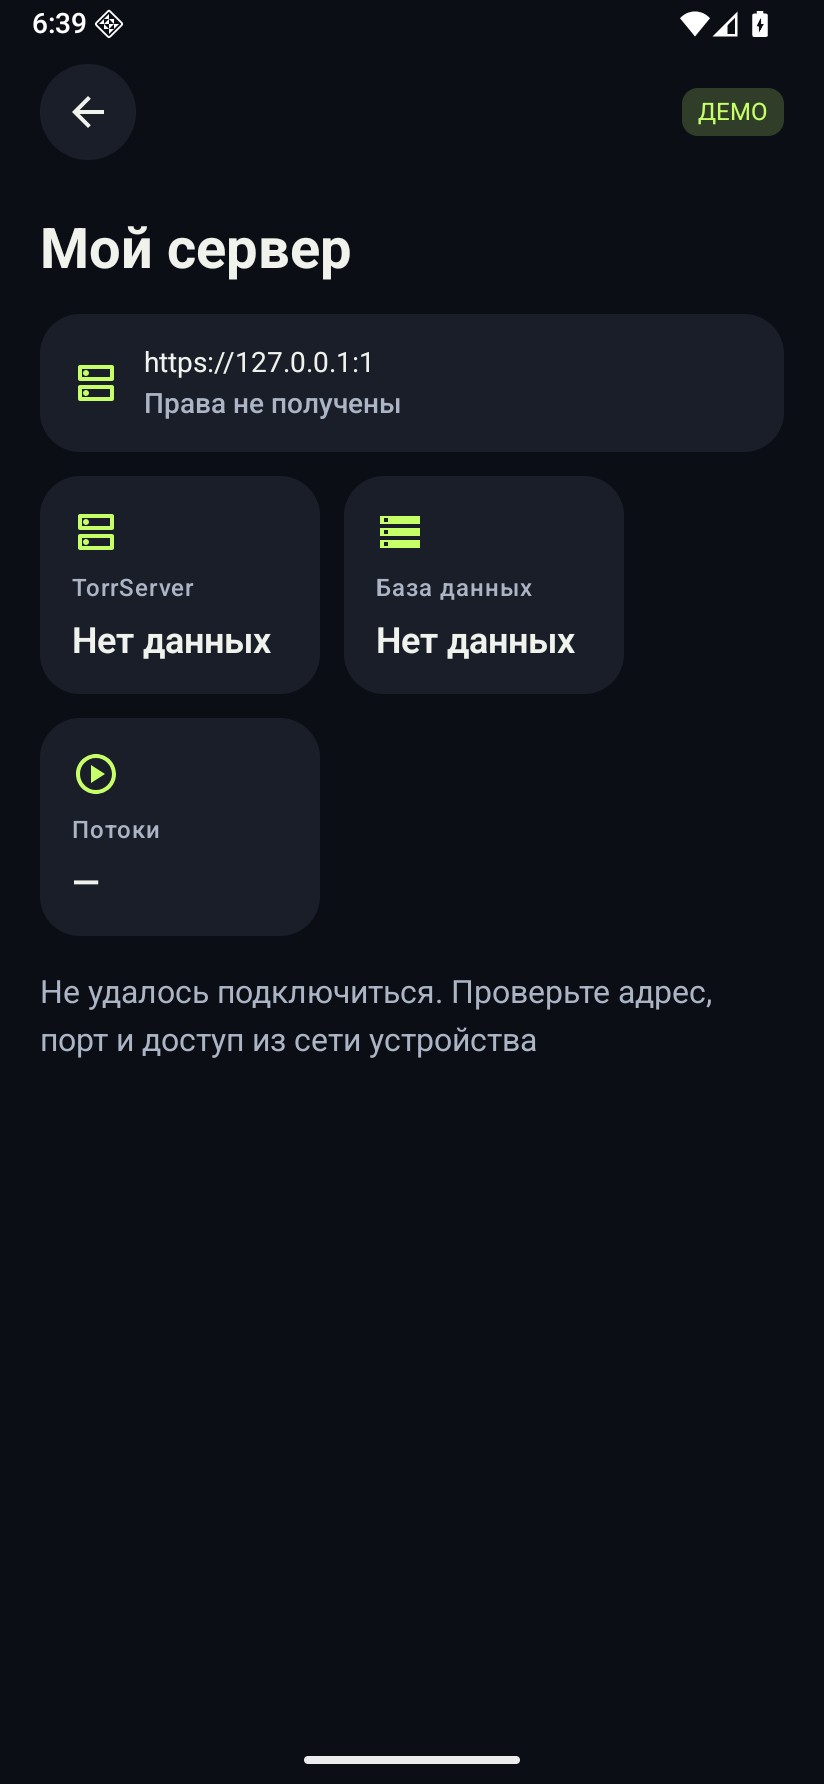
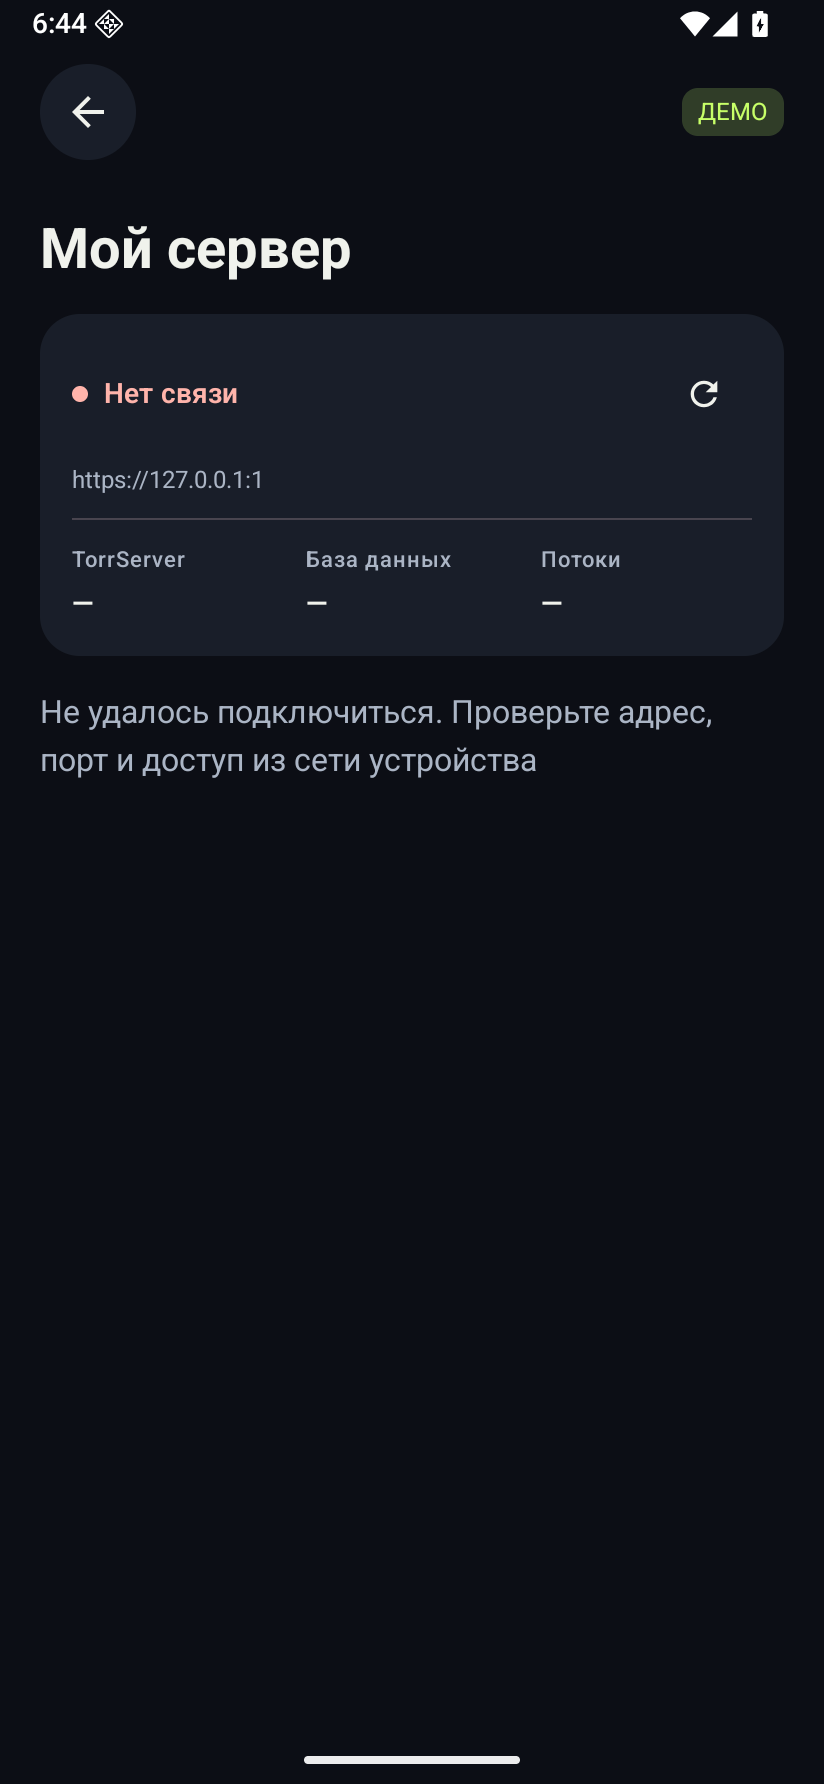
Replace server tiles with a compact live telemetry strip; refs #17

diff --git a/design-system/src/main/java/dev/mjwatch/designsystem/ServerStatusOverview.kt b/design-system/src/main/java/dev/mjwatch/designsystem/ServerStatusOverview.kt
@@ -1,44 +1,51 @@
 package dev.mjwatch.designsystem
 
+import androidx.compose.foundation.background
 import androidx.compose.foundation.layout.*
+import androidx.compose.foundation.shape.CircleShape
 import androidx.compose.material.icons.Icons
-import androidx.compose.material.icons.outlined.*
+import androidx.compose.material.icons.outlined.Refresh
 import androidx.compose.material3.*
 import androidx.compose.runtime.Composable
 import androidx.compose.ui.Alignment
 import androidx.compose.ui.Modifier
-import androidx.compose.ui.graphics.vector.ImageVector
+import androidx.compose.ui.semantics.*
 import androidx.compose.ui.text.font.FontWeight
 import androidx.compose.ui.unit.dp
 import org.json.JSONObject
 
-@OptIn(ExperimentalLayoutApi::class)
-@Composable internal fun ServerStatusOverview(url:String,role:String?,data:JSONObject?,loading:Boolean) {
-    val unknown=if(loading)"Проверяем…" else "Нет данных"
-    Column(verticalArrangement=Arrangement.spacedBy(12.dp)) {
-        Surface(shape=MaterialTheme.shapes.large,color=MaterialTheme.colorScheme.surfaceContainer) {
-            Row(Modifier.fillMaxWidth().padding(16.dp),horizontalArrangement=Arrangement.spacedBy(12.dp),verticalAlignment=Alignment.CenterVertically) {
-                Icon(Icons.Outlined.Dns,null,tint=MaterialTheme.colorScheme.primary)
-                Column(Modifier.weight(1f),verticalArrangement=Arrangement.spacedBy(4.dp)) {
-                    Text(url,style=MaterialTheme.typography.bodyMedium)
-                    Text(when(role){"admin"->"Администратор";"member"->"Участник";else->if(loading)"Проверяем права…" else "Права не получены"},style=MaterialTheme.typography.labelLarge,color=MaterialTheme.colorScheme.onSurfaceVariant)
-                }
+/** One compact telemetry strip; management actions stay in the settings list below. */
+@Composable fun ServerStatusOverview(url:String,role:String?,data:JSONObject?,loading:Boolean,failed:Boolean,checkedAt:Long,tv:Boolean,onRefresh:()->Unit) {
+    val colors=MaterialTheme.colorScheme
+    val status=when {failed->"Нет связи";data!=null->"Сервер доступен";loading->"Подключаемся…";else->"Нет данных"}
+    val statusColor=when {failed->colors.error;data!=null->colors.primary;else->colors.onSurfaceVariant}
+    Surface(shape=MaterialTheme.shapes.large,color=colors.surfaceContainer) {
+        Column(Modifier.fillMaxWidth().padding(16.dp),verticalArrangement=Arrangement.spacedBy(12.dp)) {
+            Row(verticalAlignment=Alignment.CenterVertically,horizontalArrangement=Arrangement.spacedBy(8.dp)) {
+                Box(Modifier.size(8.dp).background(statusColor,CircleShape))
+                Text(status,style=MaterialTheme.typography.titleSmall,fontWeight=FontWeight.SemiBold,color=statusColor,modifier=Modifier.weight(1f).semantics {liveRegion=LiveRegionMode.Polite})
+                if(loading) CircularProgressIndicator(Modifier.size(16.dp).semantics {contentDescription="Обновление статуса"},strokeWidth=2.dp)
+                else IconButton(onClick=onRefresh,modifier=Modifier.size(48.dp).tvFocusRing(tv)) {Icon(Icons.Outlined.Refresh,"Обновить статус",Modifier.size(20.dp))}
             }
-        }
-        FlowRow(horizontalArrangement=Arrangement.spacedBy(12.dp),verticalArrangement=Arrangement.spacedBy(12.dp),maxItemsInEachRow=3) {
-            ServerStatusTile("TorrServer",data?.let {if(it.optBoolean("torrserverHealthy"))"Работает" else "Недоступен"} ?: unknown,Icons.Outlined.Dns,data?.optBoolean("torrserverHealthy"))
-            ServerStatusTile("База данных",data?.let {if(it.optBoolean("databaseHealthy"))"Проверена" else "Ошибка"} ?: unknown,Icons.Outlined.Storage,data?.optBoolean("databaseHealthy"))
-            ServerStatusTile("Потоки",data?.let {it.optInt("activeStreams").toString()} ?: "—",Icons.Outlined.PlayCircle,null)
+            Text(url,style=MaterialTheme.typography.bodySmall,color=colors.onSurfaceVariant)
+            HorizontalDivider(color=colors.outlineVariant)
+            Row(Modifier.fillMaxWidth(),horizontalArrangement=Arrangement.spacedBy(12.dp)) {
+                StatusMetric("TorrServer",data?.let {if(it.optBoolean("torrserverHealthy"))"Работает" else "Недоступен"} ?: "—",data?.optBoolean("torrserverHealthy"),Modifier.weight(1f))
+                StatusMetric("База данных",data?.let {if(it.optBoolean("databaseHealthy"))"В норме" else "Ошибка"} ?: "—",data?.optBoolean("databaseHealthy"),Modifier.weight(1f))
+                StatusMetric("Потоки",data?.optInt("activeStreams")?.toString() ?: "—",null,Modifier.weight(1f))
+            }
+            val details=listOfNotNull(
+                when(role){"admin"->"Администратор";"member"->"Участник";else->null},
+                data?.optString("version")?.takeIf {it.isNotBlank()}?.let {"v$it"},
+                if(failed&&data!=null)"Последние данные" else checkedAt.takeIf {it>0}?.let {"Обновлено ${java.text.SimpleDateFormat("HH:mm:ss",java.util.Locale.getDefault()).format(java.util.Date(it))}"})
+            if(details.isNotEmpty()) Text(details.joinToString(" · "),style=MaterialTheme.typography.labelSmall,color=colors.onSurfaceVariant)
         }
     }
 }
 
-@Composable private fun ServerStatusTile(title:String,value:String,icon:ImageVector,healthy:Boolean?) {
-    Surface(shape=MaterialTheme.shapes.large,color=MaterialTheme.colorScheme.surfaceContainer) {
-        Column(Modifier.widthIn(min=140.dp).padding(16.dp),verticalArrangement=Arrangement.spacedBy(8.dp)) {
-            Icon(icon,null,tint=if(healthy==false)MaterialTheme.colorScheme.error else MaterialTheme.colorScheme.primary)
-            Text(title,style=MaterialTheme.typography.labelMedium,color=MaterialTheme.colorScheme.onSurfaceVariant)
-            Text(value,style=MaterialTheme.typography.titleMedium,fontWeight=FontWeight.SemiBold,color=if(healthy==false)MaterialTheme.colorScheme.error else MaterialTheme.colorScheme.onSurface)
-        }
+@Composable private fun StatusMetric(title:String,value:String,healthy:Boolean?,modifier:Modifier) {
+    Column(modifier,verticalArrangement=Arrangement.spacedBy(4.dp)) {
+        Text(title,style=MaterialTheme.typography.labelSmall,color=MaterialTheme.colorScheme.onSurfaceVariant)
+        Text(value,style=MaterialTheme.typography.titleSmall,fontWeight=FontWeight.SemiBold,color=if(healthy==false)MaterialTheme.colorScheme.error else MaterialTheme.colorScheme.onSurface)
     }
 }

diff --git a/design-system/src/main/java/dev/mjwatch/designsystem/ServerScreens.kt b/design-system/src/main/java/dev/mjwatch/designsystem/ServerScreens.kt
@@ -42,9 +42,11 @@ import java.util.UUID
  confirm?.let {(text,action)->AlertDialog(onDismissRequest={confirm=null},title={Text("Подтвердите действие")},text={Text(text)},confirmButton={TextButton(modifier=Modifier.tvFocusRing(tv),onClick={confirm=null;action()}){Text("Подтвердить")}},dismissButton={TextButton(modifier=Modifier.tvFocusRing(tv),onClick={confirm=null}){Text("Отмена")}})}
  LaunchedEffect(page,s.config.scope,managed.me){if(page=="managed-login"&&s.config.historyEnabled&&managed.me?.optString("userId")==s.config.userId){controller.cancelPairing();model.page("home")}}
  val load=when(page){"server-overview"->"admin/status";"server-users"->"admin/users";"server-tmdb"->"admin/tmdb";"server-history"->"admin/backups";"server-retention"->"admin/settings";"server-maintenance","server-update"->"admin/status";"managed-account"->"devices";else->null}
- LaunchedEffect(page,s.config.scope){if(load!=null&&s.config.historyEnabled)controller.load(load)}
+ LaunchedEffect(page,s.config.scope){if(load!=null&&s.config.historyEnabled) {
+  do {controller.load(load);if(page=="server-overview")delay(15000)} while(page=="server-overview")
+ }}
  val content:@Composable ()->Unit={Column(Modifier.fillMaxSize().verticalScroll(rememberScrollState()).imePadding().padding(vertical=20.dp),verticalArrangement=Arrangement.spacedBy(16.dp)) {
-  if(managed.busy) LinearProgressIndicator(Modifier.fillMaxWidth())
+  if(managed.busy&&page!="server-overview") LinearProgressIndicator(Modifier.fillMaxWidth())
   when(page) {
    "connection-choice"->{
     Text("Как подключиться",fontSize=28.sp,fontWeight=FontWeight.Bold)
@@ -120,7 +122,7 @@ import java.util.UUID
    }
    "server-overview"->{
     Text("Мой сервер",fontSize=28.sp,fontWeight=FontWeight.Bold)
-    ServerStatusOverview(s.config.managedUrl,managed.me?.optString("role"),managed.data?.takeIf {it.has("databaseHealthy")&&it.has("torrserverHealthy")},managed.busy)
+    ServerStatusOverview(s.config.managedUrl,managed.me?.optString("role"),managed.data?.takeIf {it.has("databaseHealthy")&&it.has("torrserverHealthy")},managed.busy,managed.message.isNotBlank(),managed.statusCheckedAt,tv){controller.load("admin/status")}
     if(managed.me?.optString("role")=="admin") SettingsGroup(tv){listOf(Triple("Пользователи","server-users",Icons.Outlined.People),Triple("TorrServer","server-torr",Icons.Outlined.Dns),Triple("TMDB и каталог","server-tmdb",Icons.Outlined.Movie),Triple("История и копии","server-history",Icons.Outlined.History),Triple("Обслуживание","server-maintenance",Icons.Outlined.Build)).forEach {(title,destination,icon)->SettingsActionRow(icon,title,when(destination){"server-users"->managed.data?.takeIf {it.has("users")}?.let {"Пользователей: ${it.getInt("users")}"} ?: "Не загружено";"server-tmdb"->managed.data?.optJSONObject("tmdb")?.let {if(it.optBoolean("credentialConfigured"))"Ключ настроен" else "Ключ не настроен"} ?: "Не загружено";else->"Настройки и состояние"},tv){model.page(destination)};SettingsDivider()}}
    }
    "server-tmdb"->{

diff --git a/design-system/src/main/java/dev/mjwatch/designsystem/ManagedController.kt b/design-system/src/main/java/dev/mjwatch/designsystem/ManagedController.kt
@@ -6,7 +6,7 @@ import kotlinx.coroutines.*
 import kotlinx.coroutines.flow.*
 import org.json.JSONObject
 
-data class ManagedState(val scope:String="",val busy:Boolean=false,val message:String="",val syncMessage:String="",val me:JSONObject?=null,val data:JSONObject?=null,val pairing:JSONObject?=null,val pairingSetup:ManagedTvSetup?=null,val pending:List<OutboxEntry> = emptyList(),val syncedAt:Long=0)
+data class ManagedState(val statusCheckedAt:Long=0,val scope:String="",val busy:Boolean=false,val message:String="",val syncMessage:String="",val me:JSONObject?=null,val data:JSONObject?=null,val pairing:JSONObject?=null,val pairingSetup:ManagedTvSetup?=null,val pending:List<OutboxEntry> = emptyList(),val syncedAt:Long=0)
 class ManagedController(private val context:android.content.Context,private val scope:CoroutineScope,private val settings:Settings,private val secrets:SecretStore,private val db:WatchDatabase,private val config:()->Config) {
  private val mutable=MutableStateFlow(ManagedState());val state=mutable.asStateFlow()
  val users=UsersController(scope,secrets,config)
@@ -35,7 +35,7 @@ class ManagedController(private val context:android.content.Context,private val 
   // Snapshot establishes epochs before any local writes; old local history is imported only explicitly.
   val savedApi=ManagedApi(saved,secrets,caOverride);savedApi.saveTokens(result);secrets.put("access:${api.base.origin()}:","");secrets.put("refresh:${api.base.origin()}:","");SyncEngine(savedApi,db.syncDao()).connect();if(caOverride!=null)secrets.put("ca:${api.base.origin()}",caOverride);settings.save(saved);settings.destination("home");mutable.update {it.copy(scope=saved.scope,me=me,data=null,message="Подключение проверено")}
  }
- fun load(path:String)=run {val api=api();val me=api.authorized("me");val data=api.authorized(path);if(config().scope!=api.config.scope)throw CancellationException("Account changed");mutable.update {it.copy(me=me,data=data)}}
+ fun load(path:String)=run {val api=api();val me=api.authorized("me");val data=api.authorized(path);if(config().scope!=api.config.scope)throw CancellationException("Account changed");mutable.update {it.copy(me=me,data=data,statusCheckedAt=if(path=="admin/status")System.currentTimeMillis() else it.statusCheckedAt)}}
  fun action(path:String,method:String,body:JSONObject=JSONObject(),revision:String?=null,reload:String?=null)=run {val api=api();val data=api.authorized(path,method,body,revision);if(config().scope!=api.config.scope)throw CancellationException("Account changed");if(path=="history"&&method=="DELETE"){db.syncDao().clearHistoryOutbox(config().scope);SyncEngine(api,db.syncDao()).connect()};mutable.update {it.copy(data=data,message="Операция подтверждена сервером")};if(reload!=null){val fresh=api.authorized(reload);mutable.update {it.copy(data=fresh)}}}
  fun logout(clearCache:Boolean)=run {
   check(!PlaybackActivity.hasActivePlayback()) {"Остановите воспроизведение перед выходом"}

diff --git a/app-mobile/src/androidTest/java/dev/mjwatch/mobile/NovemberIssuesUiTest.kt b/app-mobile/src/androidTest/java/dev/mjwatch/mobile/NovemberIssuesUiTest.kt
@@ -1,6 +1,14 @@
 @file:OptIn(androidx.compose.ui.test.ExperimentalTestApi::class)
 package dev.mjwatch.mobile
 
+import androidx.activity.compose.setContent
+import androidx.compose.foundation.layout.*
+import androidx.compose.material3.*
+import androidx.compose.runtime.*
+import androidx.compose.ui.Modifier
+import androidx.compose.ui.unit.dp
+import dev.mjwatch.designsystem.ServerStatusOverview
+import dev.mjwatch.designsystem.WatchTheme
 import androidx.compose.ui.test.*
 import androidx.compose.ui.test.junit4.createAndroidComposeRule
 import androidx.compose.ui.semantics.SemanticsActions
@@ -92,6 +100,28 @@ class NovemberIssuesUiTest {
             compose.onNodeWithText("Потоки").assertIsDisplayed()
             capture("server-status-$theme")
         }
+    }
+
+    @Test fun compactTelemetryShowsHealthStreamsAndRefresh() {
+        var theme by mutableStateOf("dark")
+        var refreshes=0
+        val data=org.json.JSONObject().put("databaseHealthy",true).put("torrserverHealthy",true).put("activeStreams",2).put("version","0.1.3")
+        compose.runOnUiThread {compose.activity.setContent {
+            WatchTheme(theme) {Surface(Modifier.fillMaxSize()) {Column(Modifier.padding(20.dp),verticalArrangement=Arrangement.spacedBy(16.dp)) {
+                Text("Мой сервер",style=MaterialTheme.typography.headlineLarge)
+                ServerStatusOverview("https://watch.example:8443","admin",data,false,false,1,false){refreshes++}
+            }}}
+        }}
+        for(value in listOf("dark","light")) {
+            compose.runOnIdle {theme=value}
+            compose.onNodeWithText("Сервер доступен").assertIsDisplayed()
+            compose.onNodeWithText("Работает").assertIsDisplayed()
+            compose.onNodeWithText("В норме").assertIsDisplayed()
+            compose.onNodeWithText("2").assertIsDisplayed()
+            compose.onNodeWithContentDescription("Обновить статус").performClick()
+            capture("server-telemetry-$value")
+        }
+        compose.runOnIdle {Assert.assertEquals(2,refreshes)}
     }
 
 }

diff --git a/docs/testing/issues-14-18/README.md b/docs/testing/issues-14-18/README.md
@@ -5,7 +5,7 @@ Version: 0.8.6. All fixtures use synthetic titles, local HTTP responses and isol
 - #14: history cards and wide continue-watching cards derive season/episode from the latest saved file path; unnumbered movies retain time-only labels. Unit cases cover S02E03, season directories, Russian filenames and unnumbered films.
 - #15: poster cards use NativeCard and the shared positive-inset external TV ring. Focus and press keep the same bounds; verified in dark/light themes.
 - #16: defer the remote long-click action until after the release event has reached the card. Request delete-button focus inside the dialog window. The TV test sends actual `input keyevent --longpress 23`, verifies that the dialog survives release without opening the title or deleting history, then deletes with a separate OK press.
-- #17: server URL/role and TorrServer/database/stream summaries use themed surfaces, icons and explicit text states. Cards wrap on narrow displays. Unknown health is never presented as healthy.
+- #17: one compact observability strip shows server reachability, URL/role, TorrServer/database health, active streams, server version and last check. Metrics refresh every 15 seconds while the screen is open, with manual refresh. Existing management rows are preserved. Unknown health is never presented as healthy.
 - #18: catalog loading uses a 28 dp spinner instead of a 240 dp panel. Search and the release sheet show spinners; search busy state includes both concurrent requests. A local MockWebServer delays release responses to verify loading appears and disappears when the request completes.
 
 ## Reproducible checks
@@ -17,6 +17,6 @@ ANDROID_SERIAL=<phone> ./gradlew :app-mobile:connectedDebugAndroidTest -Pandroid
 ANDROID_SERIAL=<tv> ./gradlew :app-tv:connectedDebugAndroidTest -Pandroid.testInstrumentationRunnerArguments.class=dev.mjwatch.tv.NovemberIssuesUiTest
 ```
 
-Local runtime: Android 16 / API 36 phone and TV emulators, 3 phone tests and 2 TV tests passed. The pre-existing Android 17 / API 37 emulator cannot run the current Espresso library (`InputManager.getInstance` removed); tests were run on supported API 36 devices instead. A local version-code override preserved a previously installed test APK.
+Local runtime: Android 16 / API 36 phone and TV emulators, 4 phone tests and 2 TV tests passed. The pre-existing Android 17 / API 37 emulator cannot run the current Espresso library (`InputManager.getInstance` removed); tests were run on supported API 36 devices instead. A local version-code override preserved a previously installed test APK.
 
-Screenshots: [phone](phone/), [TV](tv/). Poster fixtures intentionally omit remote artwork. Server overview fixtures have no valid session and show unavailable status, not a real server health result. CI runs the complete phone/TV suites before publication.
+Screenshots: [phone](phone/), [TV](tv/). Poster fixtures intentionally omit remote artwork. Server overview route fixtures have no valid session and show unavailable status. Telemetry component fixtures use synthetic healthy metrics and verify the refresh action; they are not a real server health result. CI runs the complete phone/TV suites before publication.

diff --git a/CHANGELOG.md b/CHANGELOG.md
@@ -5,7 +5,7 @@
 - Show the saved season and episode in history and continue-watching cards (issue #14).
 - Use the shared external focus ring around TV poster cards, with stable focus and pressed bounds (issue #15).
 - Open TV library actions after OK is released, preserve the dialog and focus its explicit delete action (issue #16).
-- Replace the server overview text block with themed connection, role, health and active-stream cards (issue #17).
+- Replace the server overview text block with one compact live status strip: connection, role, health, active streams, server version, last check and refresh every 15 seconds (issue #17).
 - Replace the large catalog loading banner with a compact spinner and keep search feedback visible until all search work finishes (issue #18).
 
 ## 0.8.5
